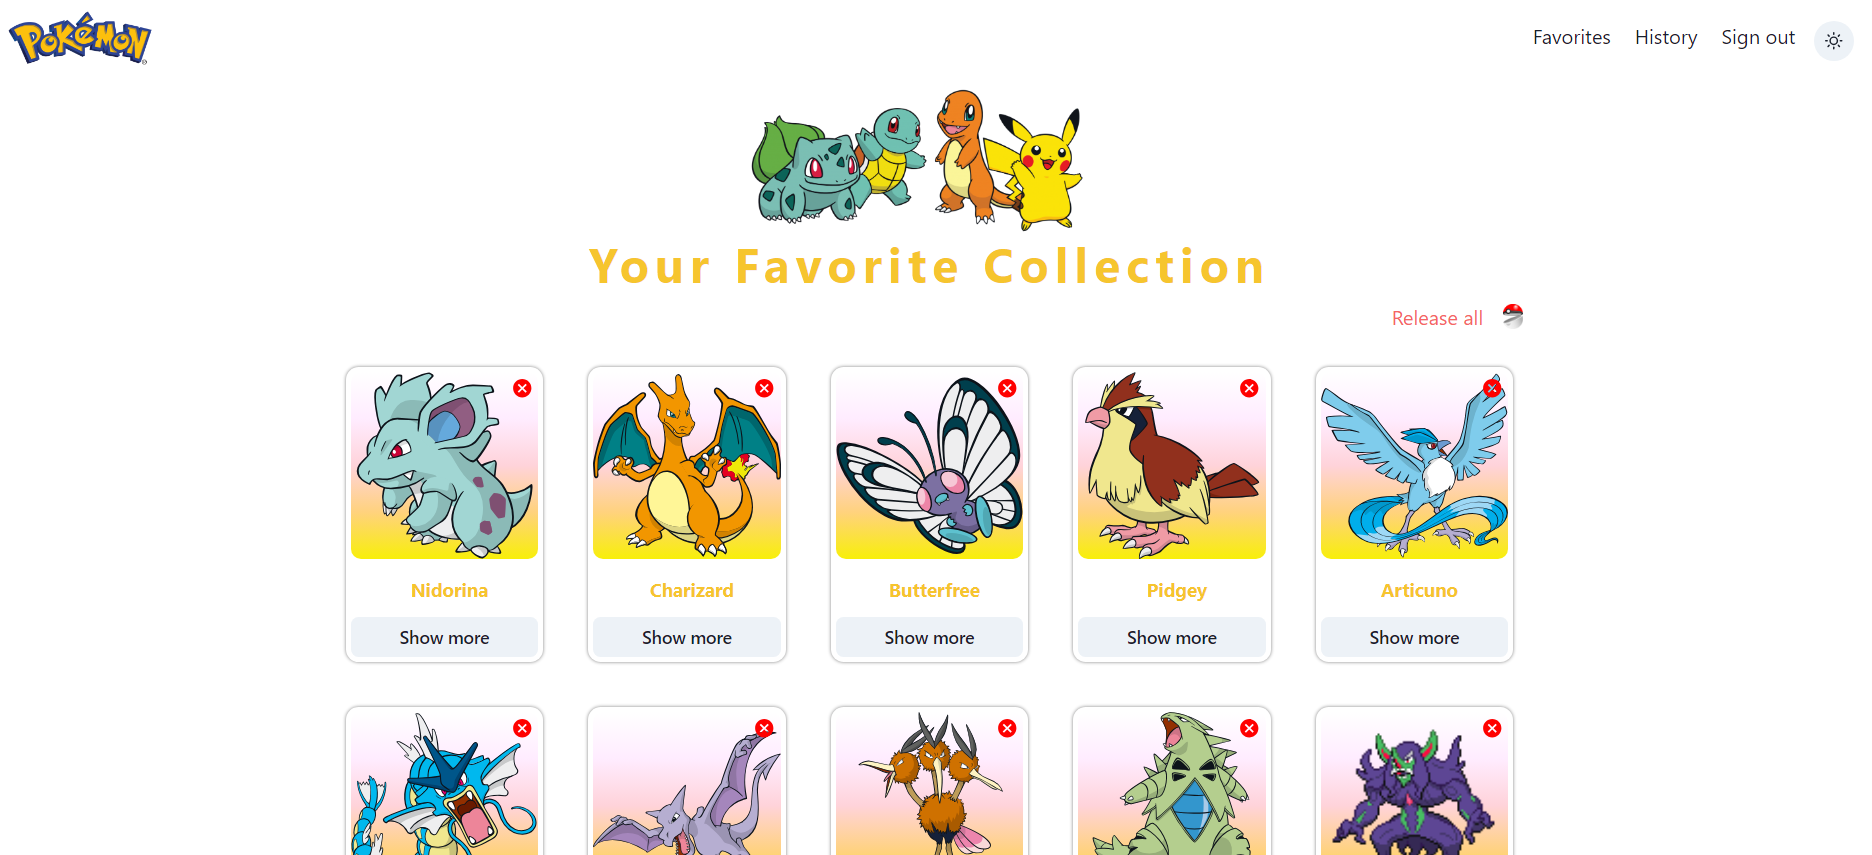
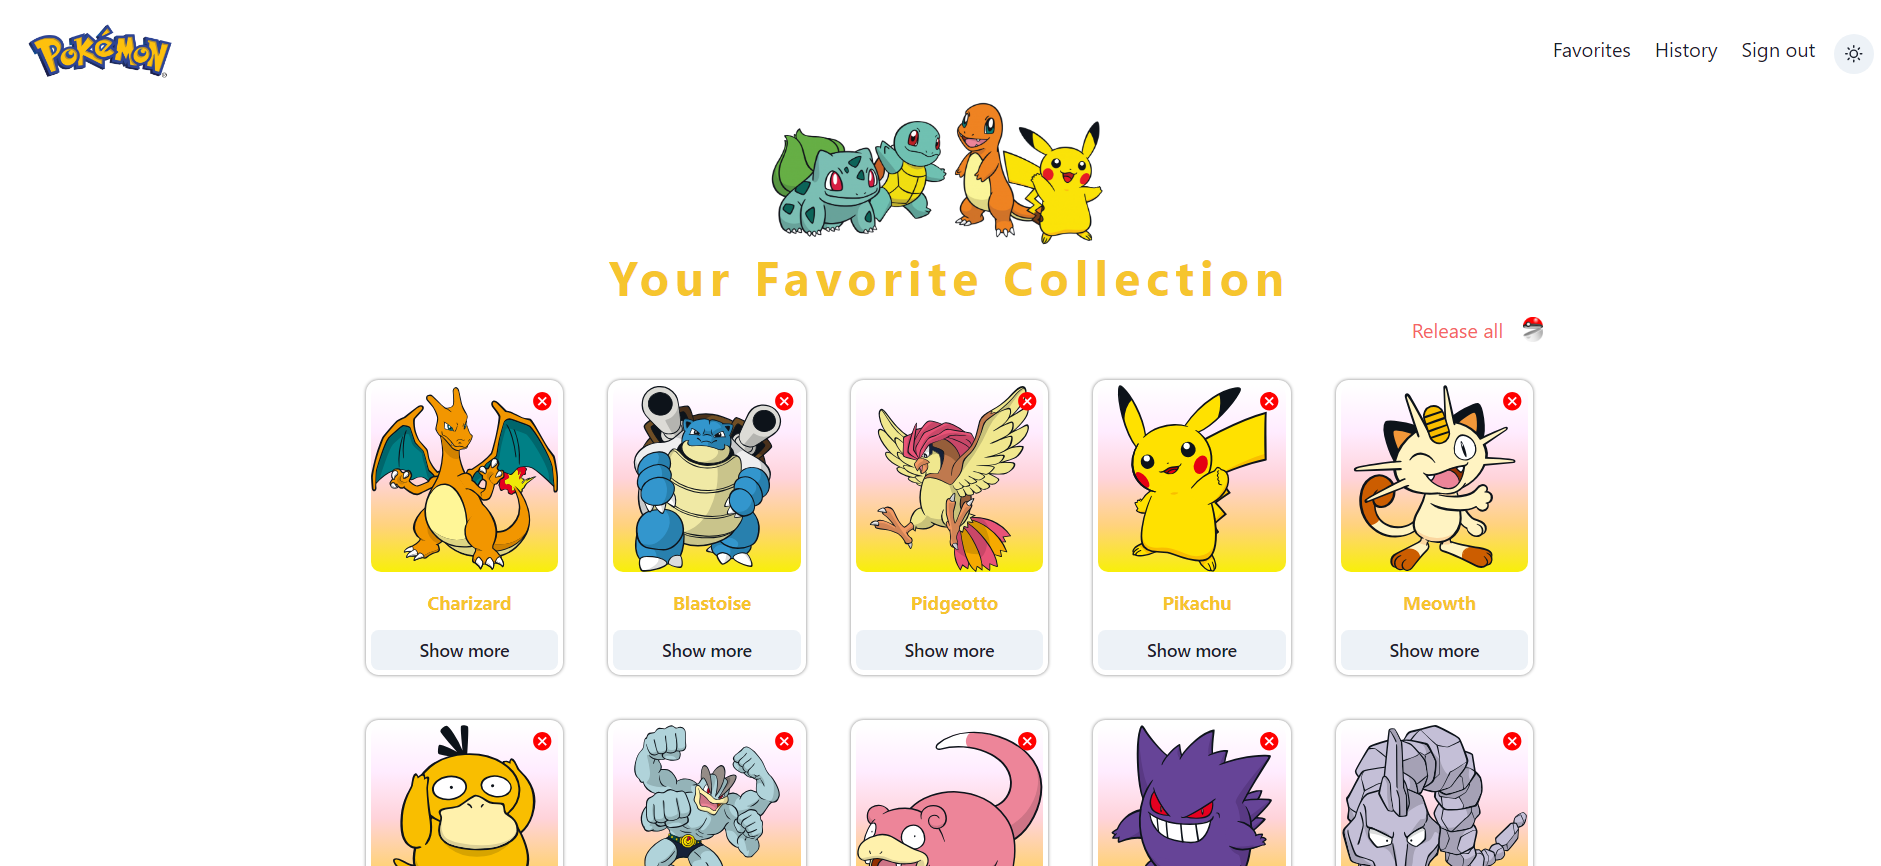
updating readme-4

diff --git a/README.md b/README.md
@@ -1,10 +1,26 @@
-# Pokemons
+# Pokémons
 
 The Pokémon world is a astonishing and vibrant place, inhabited by a lot of cool creatures, which you can capture and train for various purposes such as companionship or battles.
 
 Let's have an amazing experience by discovering and catching some of the pokemons 🙂
 
+## Have your first encounter with Pokémon World
+
 ![My Image](readmeImgs/landingPage.png)
+
+## Add them to your favorite collection
+
+![My Image](readmeImgs/favoritePage.png)
+
+## Have a history of your catching adventures
+
+![My Image](readmeImgs/historyPage.png)
+
+## Learn about Pokemons
+
+![My Image](readmeImgs/SingleCardPage.png)
+
+`-------------------------------------------------------------------`
 
 ### React
 
